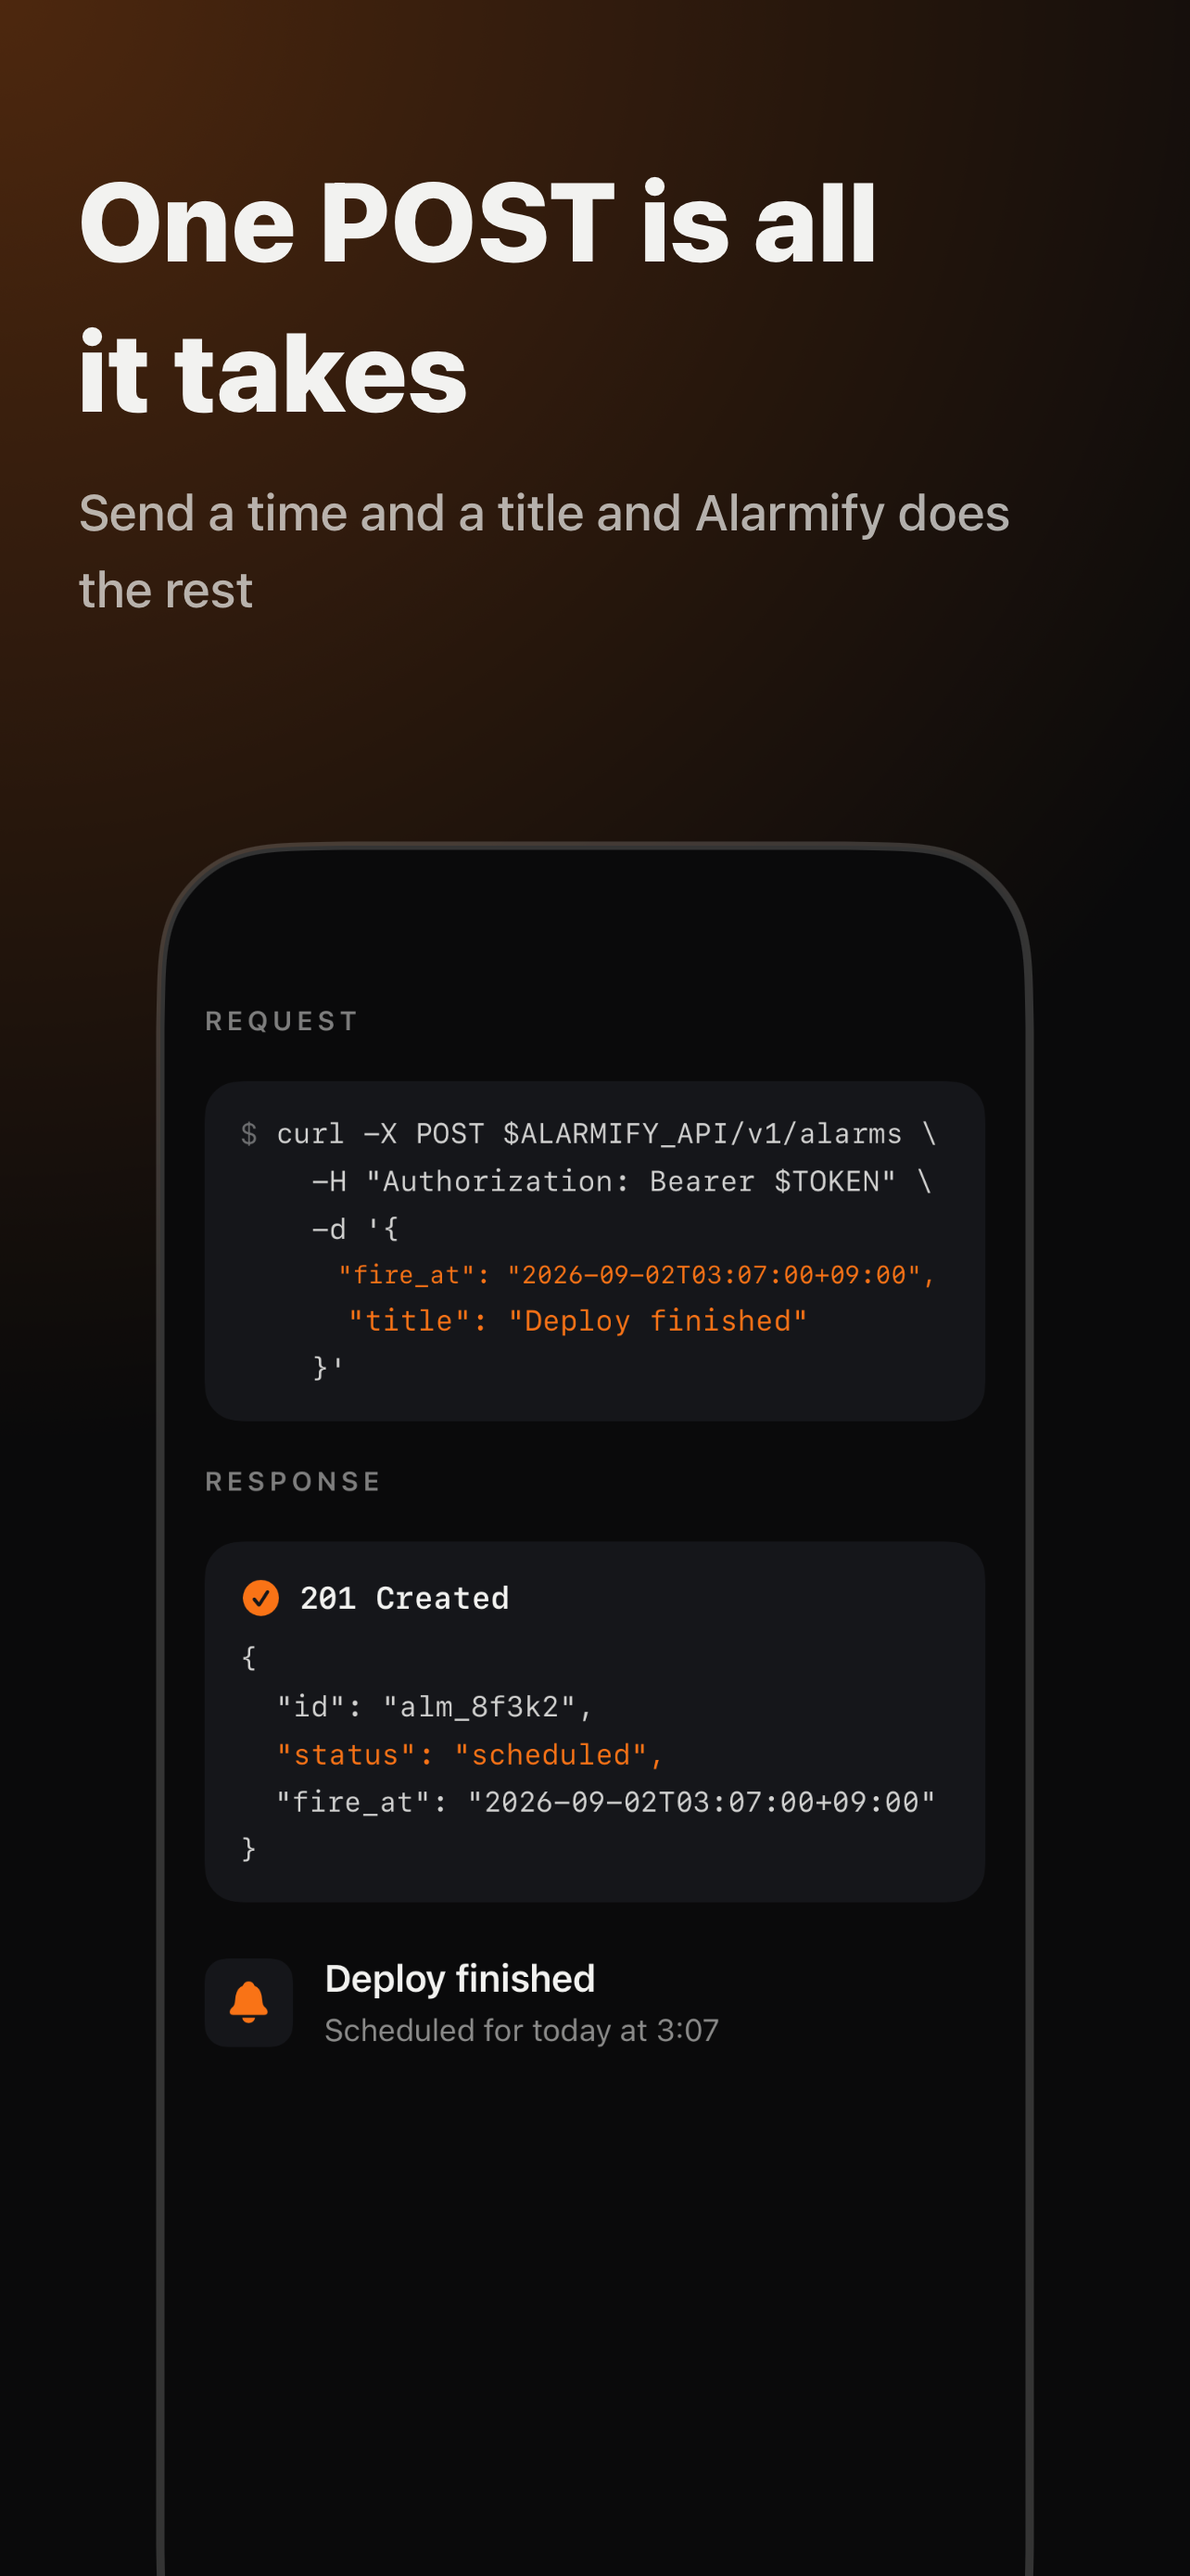
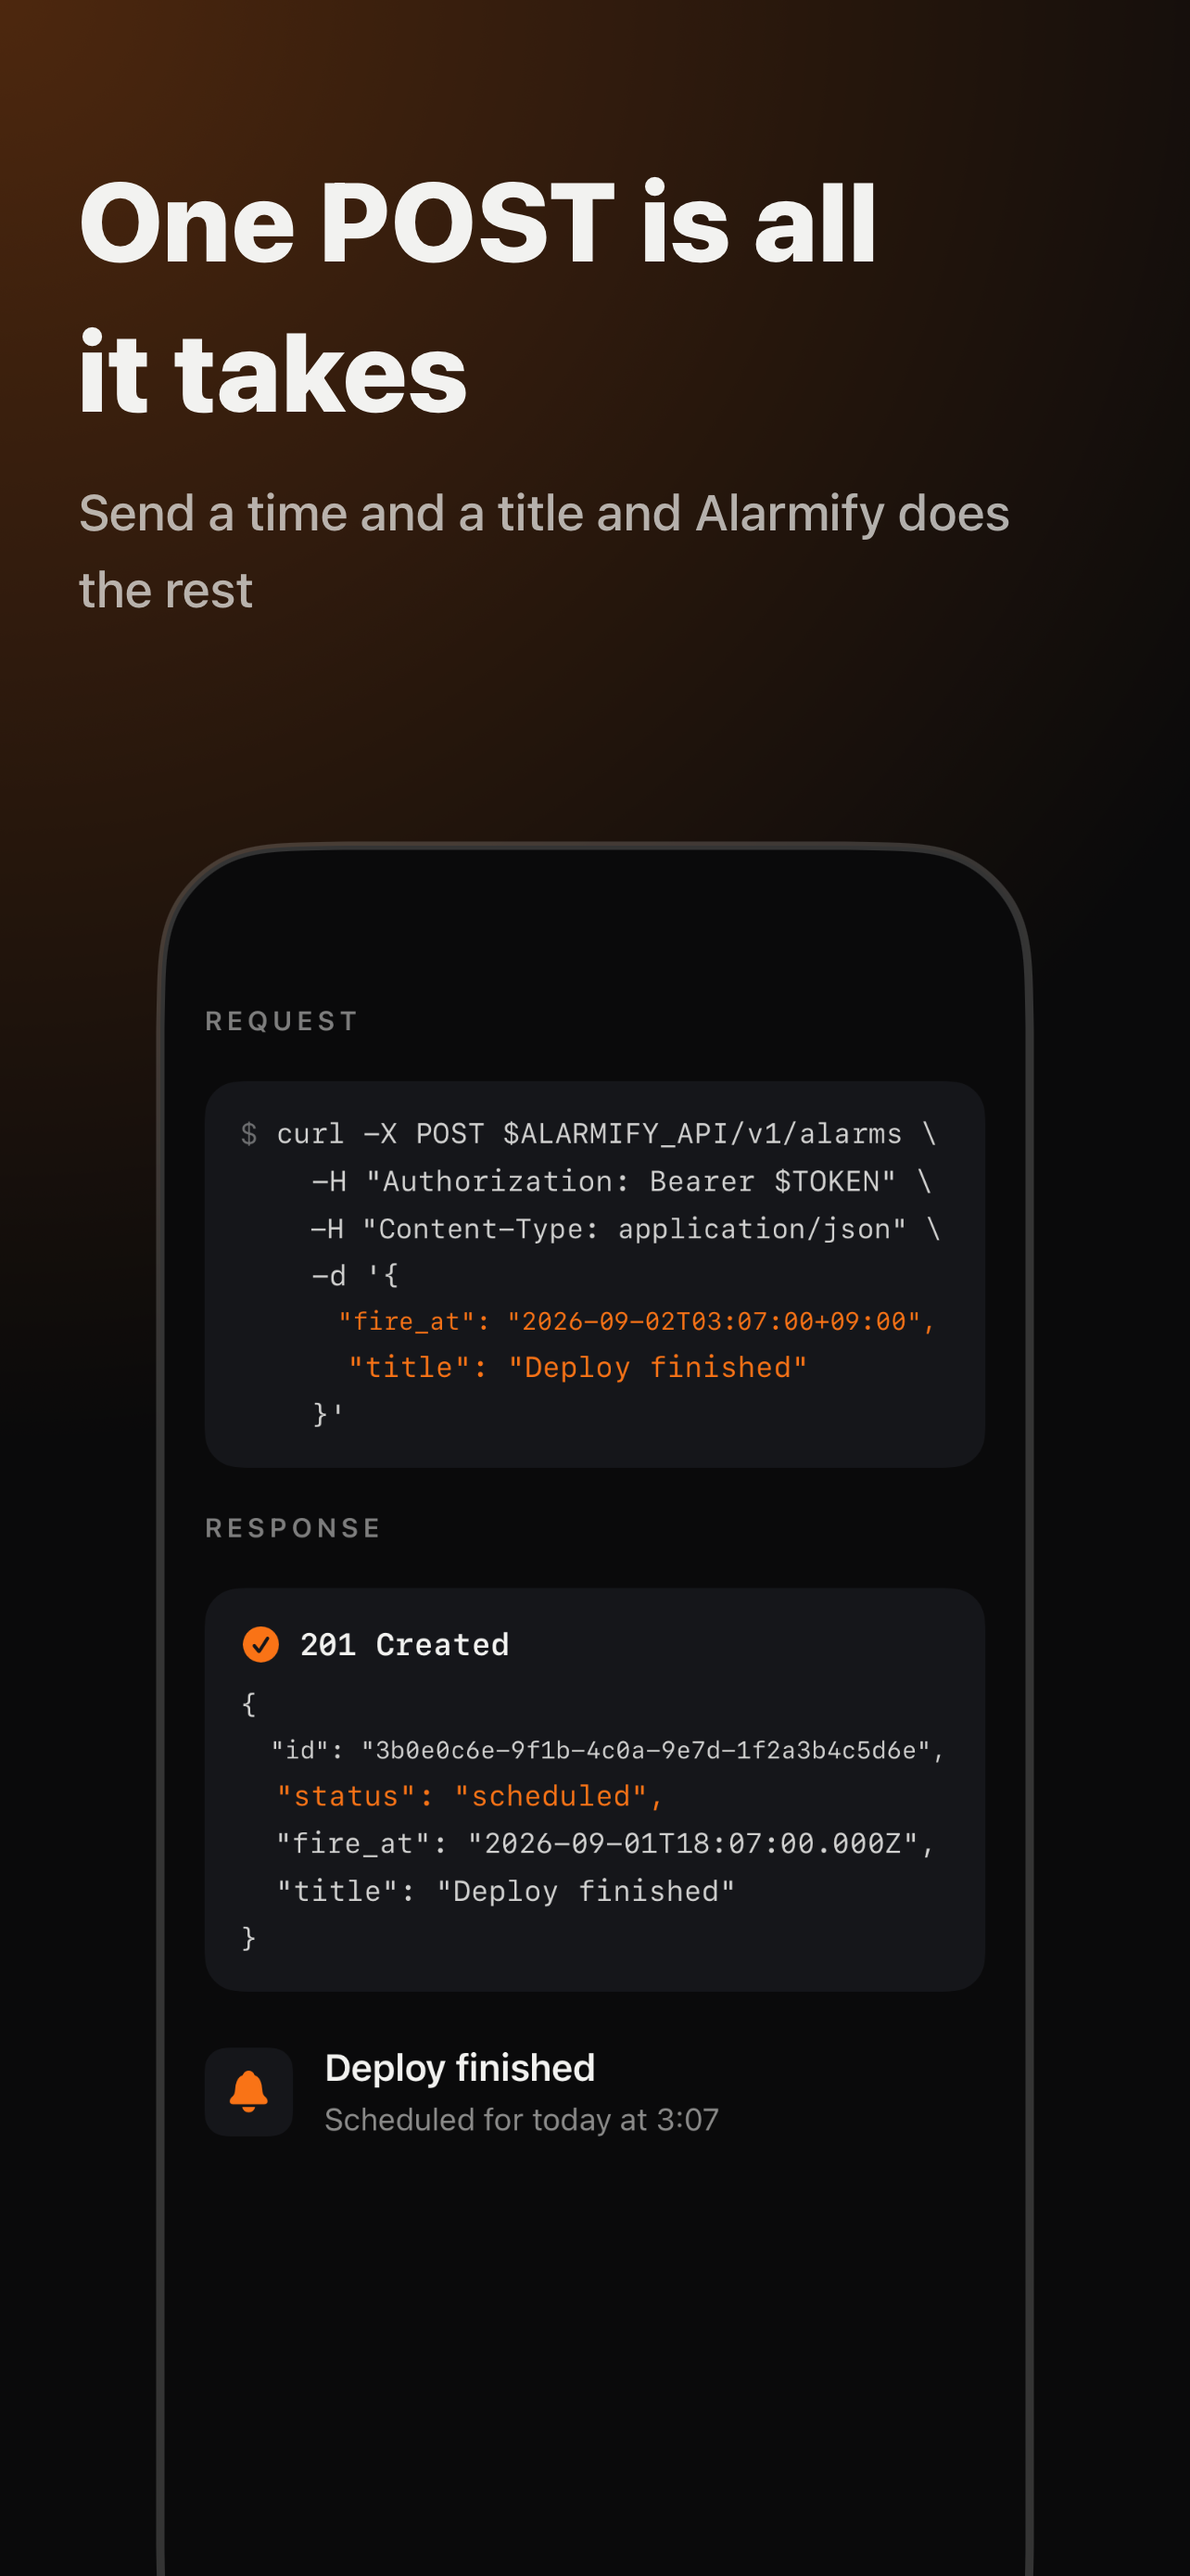
fix: レビューコメント対応 (3 回目) - API モックを契約に合わせ、撮影の状態を固定し、翻訳チェックの起票と R2 アップロードを直す
- MockAPIRequestScreen: Content-Type ヘッダを追加し、レスポンスの id を UUID、fire_at を UTC (Z) にして docs/api.md の契約に合わせる (4 枚目のスクリーンショットを再生成)
- 撮影中 (isSnapshotUITest) は保存済みトークンを消し登録済みアラームを取り消して、以前の実行の状態や UUID・トークンが画像に写らないようにする
- upload_to_r2.sh: set -e 下で curl が失敗しても認証情報の一時ファイルを消して 1 を返す
- check_translation_quality.sh: previewCount 分のインデックス欠落を失敗にし、front matter を本文から外して labels を --label で渡し (無い label は作る)、重複確認の失敗時は起票を見送って失敗に数える
- 撮影スクリプト: -l が空リストに正規化される指定を拒否する

diff --git a/AppStoreScreenshots/Sources/MockScreens/MockAPIRequestScreen.swift b/AppStoreScreenshots/Sources/MockScreens/MockAPIRequestScreen.swift
@@ -2,7 +2,9 @@ import SwiftUI
 
 /// アラーム登録 API (POST /v1/alarms) のリクエストとレスポンスのモック。
 /// 「POST ひとつで登録完了」を、curl 1 コマンドとその応答で伝える。
-/// コードはローカライズ対象外のため verbatim で書く。API のホスト名は未確定のため環境変数の形で示す
+/// コードはローカライズ対象外のため verbatim で書く。API のホスト名は未確定のため環境変数の形で示す。
+/// リクエストとレスポンスの形は docs/api.md (functions/src/api/externalApi.ts) の契約に合わせる:
+/// リクエストは JSON の Content-Type が必須、レスポンスの id は UUID、fire_at は UTC (Z) で返る
 struct MockAPIRequestScreen: View {
     /// リクエストの 1 行分。強調 (フラグ・値) はシグナル橙で塗る
     private struct CodeLine {
@@ -14,6 +16,7 @@ struct MockAPIRequestScreen: View {
     private let requestLines: [CodeLine] = [
         CodeLine(text: "curl -X POST $ALARMIFY_API/v1/alarms \\"),
         CodeLine(text: "-H \"Authorization: Bearer $TOKEN\" \\", indent: 1),
+        CodeLine(text: "-H \"Content-Type: application/json\" \\", indent: 1),
         CodeLine(text: "-d '{", indent: 1),
         CodeLine(text: "\"fire_at\": \"2026-09-02T03:07:00+09:00\",", isEmphasized: true, indent: 2),
         CodeLine(text: "\"title\": \"Deploy finished\"", isEmphasized: true, indent: 2),
@@ -22,9 +25,10 @@ struct MockAPIRequestScreen: View {
 
     private let responseLines: [CodeLine] = [
         CodeLine(text: "{"),
-        CodeLine(text: "\"id\": \"alm_8f3k2\",", indent: 1),
+        CodeLine(text: "\"id\": \"3b0e0c6e-9f1b-4c0a-9e7d-1f2a3b4c5d6e\",", indent: 1),
         CodeLine(text: "\"status\": \"scheduled\",", isEmphasized: true, indent: 1),
-        CodeLine(text: "\"fire_at\": \"2026-09-02T03:07:00+09:00\"", indent: 1),
+        CodeLine(text: "\"fire_at\": \"2026-09-01T18:07:00.000Z\",", indent: 1),
+        CodeLine(text: "\"title\": \"Deploy finished\"", indent: 1),
         CodeLine(text: "}"),
     ]
 

diff --git a/Alarmify/AlarmifyApp.swift b/Alarmify/AlarmifyApp.swift
@@ -6,6 +6,19 @@ struct AlarmifyApp: App {
     /// APNs のデバイストークン受信と background push の受信は UIApplicationDelegate でしか受け取れないため adaptor で接続する
     @UIApplicationDelegateAdaptor(AppDelegate.self) private var appDelegate
 
+    init() {
+        #if DEBUG
+        if isSnapshotUITest {
+            // 撮影対象の本番画面 (ContentView) は App Group に残ったトークンと登録済みアラームを表示するため、
+            // 以前の実行の状態に依存せず、トークンや UUID が画像 (翻訳チェックの Issue に添付される) に写らないよう空にする
+            DeviceTokenStore.removeAll()
+            for alarm in AlarmKitScheduler.alarms {
+                try? AlarmKitScheduler.cancel(id: alarm.id)
+            }
+        }
+        #endif
+    }
+
     var body: some Scene {
         WindowGroup {
             #if DEBUG

diff --git a/Alarmify/Utils/DeviceTokenStore.swift b/Alarmify/Utils/DeviceTokenStore.swift
@@ -21,4 +21,11 @@ enum DeviceTokenStore {
     static func loadFCMRegistrationToken() -> String? {
         AppGroup.userDefaults.string(forKey: fcmKey)
     }
+
+    /// 保存済みのトークンをすべて消す。多言語スクリーンショット撮影の前に、
+    /// 以前の実行で残ったトークンが画像に写らないようにするために使う
+    static func removeAll() {
+        AppGroup.userDefaults.removeObject(forKey: apnsKey)
+        AppGroup.userDefaults.removeObject(forKey: fcmKey)
+    }
 }
